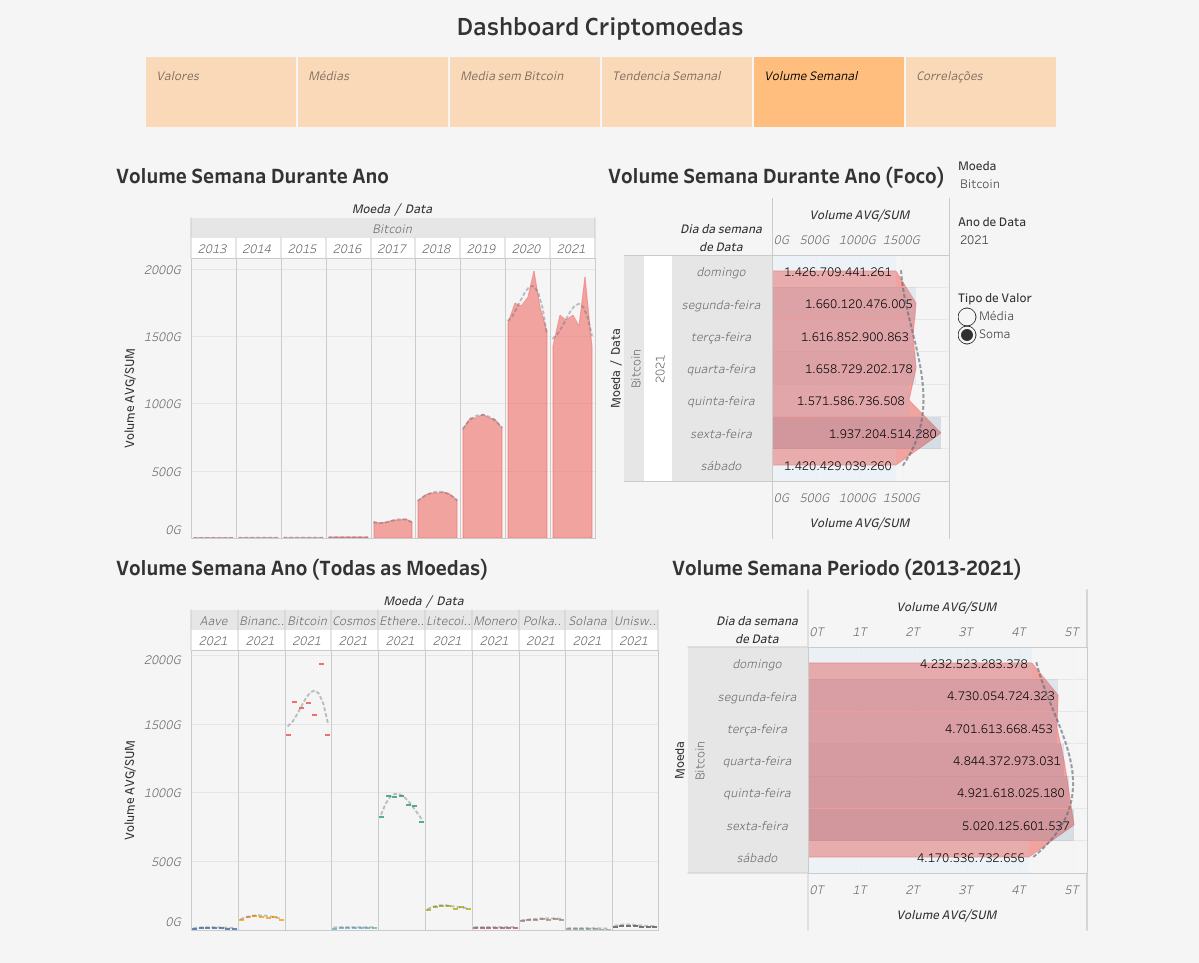
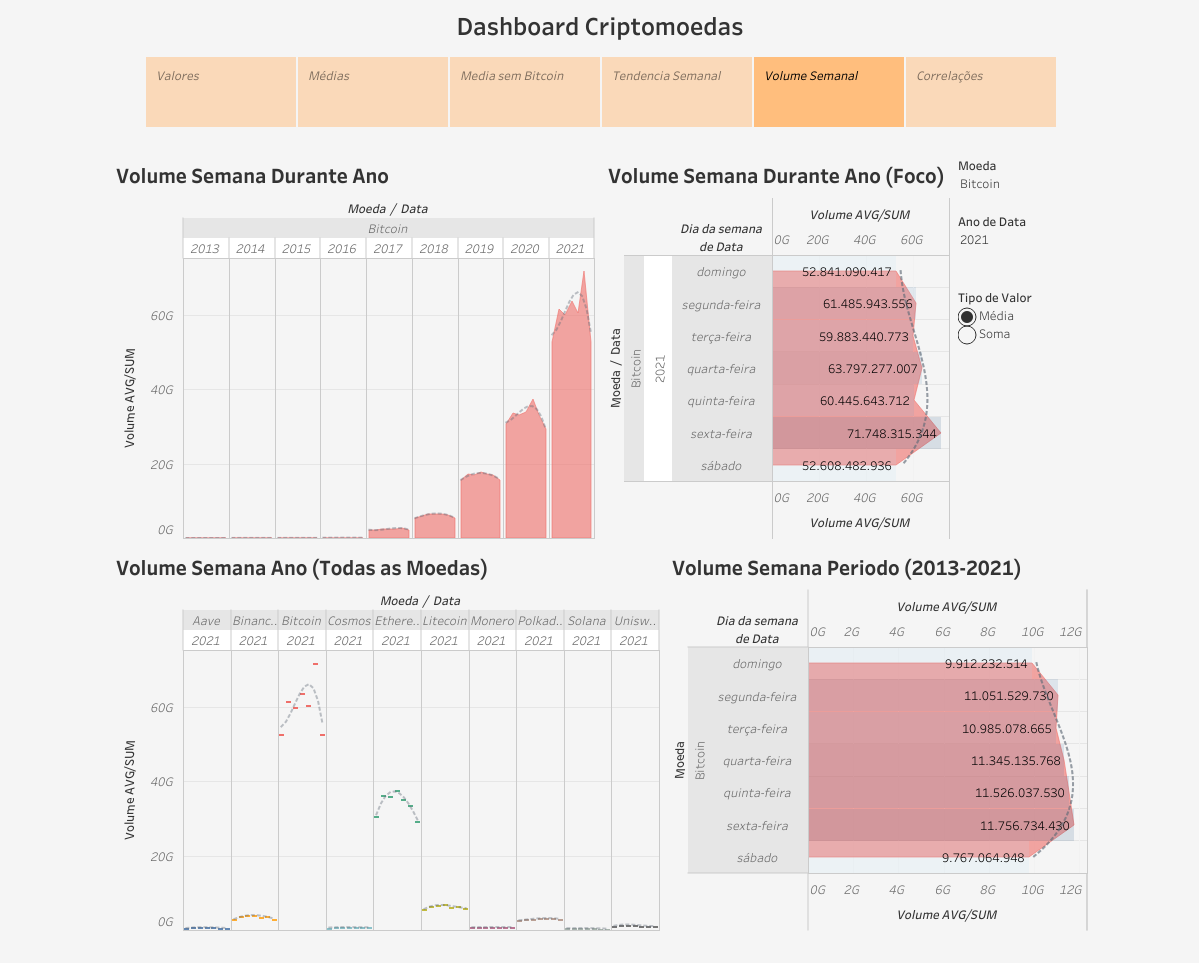
Correção de Visualisação de Graficos &  Reestruturação de analise

diff --git a/README.md b/README.md
@@ -54,43 +54,63 @@ O [PDF](Doc/Projetoemgrupo.pdf) do dashboard pode ser encontrado na pasta [Doc](
 |-----------|--------------|
 | ![](Doc/Images/Dashboard%20Criptomoedas(1).png) | ![](Doc/Images/Dashboard%20Criptomoedas(2).png) |
 
-> Analisando todos os anos em conjunto, as moedas apresentam uma tendência de aumento, com ênfase na Bitcoin. Analisando os anos individualmente, os anos de 2017 e 2020 apresentaram uma tendência de crescimento bastante alta em comparação com os demais. As outras moedas tambem apresentaram um crescimento nos anos de 2017 e 2020 mas bem menor comparado ao Bitcoin e a Ethereum.
+
+> **Análise de Tendências Anuais:**
 >
-> As maiores quedas ocorreram nos anos de 2019, mantendo-se em baixa até o final de 2020 e apresentando um crescimento em 2021 seguido por uma queda, isso ocorreu para todas as moedas.
+> Em geral, todas as moedas apresentaram uma tendência de aumento ao longo dos anos, com destaque para a Bitcoin. Os anos de **2017** e **2020** se destacaram por um crescimento expressivo, especialmente para a Bitcoin e a Ethereum. As outras moedas também experimentaram um aumento, mas em uma escala menor em comparação com essas duas.
+>
+> **Variações Anuais:**
+>
+> As maiores quedas foram observadas em **2019**, seguidas por um período de baixa até o final de **2020**. Em **2021**, houve um retorno ao crescimento, seguido por uma queda posterior. Esses padrões foram consistentes para todas as moedas analisadas.
 
 ---
 
 ![](Doc/Images/Dashboard%20Criptomoedas.png)
 
-> A Bitcoin foi a que teve maior valorização, seguida pela Ethereum. A Aave, que surgiu mais recentemente, teve um alto aumento em seu valor.
-> 
-> A Solana teve o menor aumento desde o lançamento, mas sofreu uma queda no final de 2021. Já a Cosmo teve um dos menores aumentos e ficou com o menor valor entre as 10 no final de 2021.
+> **Atraves desse grafico podemos verificar valores de forma mais precisa.**
+>
+> A **Bitcoin** e a **Ethereum** lideraram em valorização, seguidas pela Aave, que teve um aumento significativo desde sua criação. 
+>
+> Por outro lado, a **Solana** teve um crescimento mais lento e enfrentou uma queda no final de 2021, enquanto a **Cosmo** teve um dos menores aumentos e o menor valor entre as 10 criptomoedas no final de 2021.
+>
+>> *Observou-se que quase todas as criptomoedas atingiram seu pico em maio de 2021, com exceção da Bitcoin, que alcançou seu ápice em abril. Isso sugere que, como a Bitcoin é a principal referência do mercado, seu aumento precedeu o crescimento das outras moedas em maio, mostrando uma correlação significativa entre seus movimentos de mercado.*
 
 ---
 
-![](Doc/Images/Dashboard%20Criptomoedas(3).png)
 
-> Analizando para ver se existe alguma tendência de aumento ou queda dos valores pelo dia da semana, concluímos que.
 
-> Há uma tendência de muito pouca variação e sem padrão, mudando a cada ano.
->
-> Em termos gerais, pode-se dizer que não há uma tendência ligada aos dias da semana.
+| Soma | Médias |
+|-----------|--------------|
+| ![](Doc/Images/Dashboard%20Criptomoedas(3).png) | ![](Doc/Images/Dashboard%20Criptomoedas(3B).png) |
+
+> Analisando se existe alguma tendência de aumento ou queda dos valores pelo dia da semana, observamos que há uma variação mínima e ausência de padrão consistente de acordo com os anos
+> 
+> Ao examinar o gráfico, notamos uma tendência no ano de **2021**, onde os valores de venda da **Bitcoin** eram mais baixos às **quartas** e **quintas-feiras.** Essa variação pode ser atribuída à presença reduzida desses dias durante esse período específico, como indicado pelo gráfico.
+> 
+>No entanto, ao calcular a média dos valores, podemos realizar uma análise mais precisa e observamos que **não há uma tendência definida por dia da semana** ao longo dos anos.
 
 ---
 
 ![](Doc/Images/Dashboard%20Criptomoedas(4).png)
 
-
+> **Dia da Semana com Maior Volume de Negociação:**
 >
+> - **Bitcoin:** Picos de volume em Sextas-Feiras em 2021.
+> - **Ethereum:** Picos em Segundas e Quartas-Feiras em 2021.
+> - **Litecoin:** Pico em Quintas-Feiras em 2020; declínio em 2021.
+
 
 ---
 
 ![](Doc/Images/Dashboard%20Criptomoedas(5).png)
 
-> Existe correlçao principalente com a Bitcoin na maioria dos anos, porem no ano de 2021 e que a correlação varia algumas tendo bem menos que outras. Por conta da sua queda as pessoas começara a comprar outras moedas, fazendo com que a correlação ficasse assim
->
-> Em geral existe uma correlação forte da bitcoin com as outras moedas.
-> As outras medidas e anos podem se visualizada acessando grafico interativo
+> Observamos uma correlação significativa entre as moedas na maioria dos anos, indicando uma tendência geral de movimento conjunto entre elas.
+> 
+> Em 2021, houve uma variação na correlação entre as moedas, com algumas apresentando correlações menores do que em anos anteriores. Essa mudança pode ser atribuída à queda no valor da **Bitcoin**, levando os investidores a diversificar seus investimentos em busca de melhores oportunidades. 
+> 
+> Em resumo, enquanto observamos uma correlação forte entre as moedas em anos anteriores, a diversificação dos investimentos em 2021 levou a uma redução da correlação entre algumas delas.
+> 
+> As outras medidas e anos podem ser visualizada acessando grafico interativo
 
 ---
 
